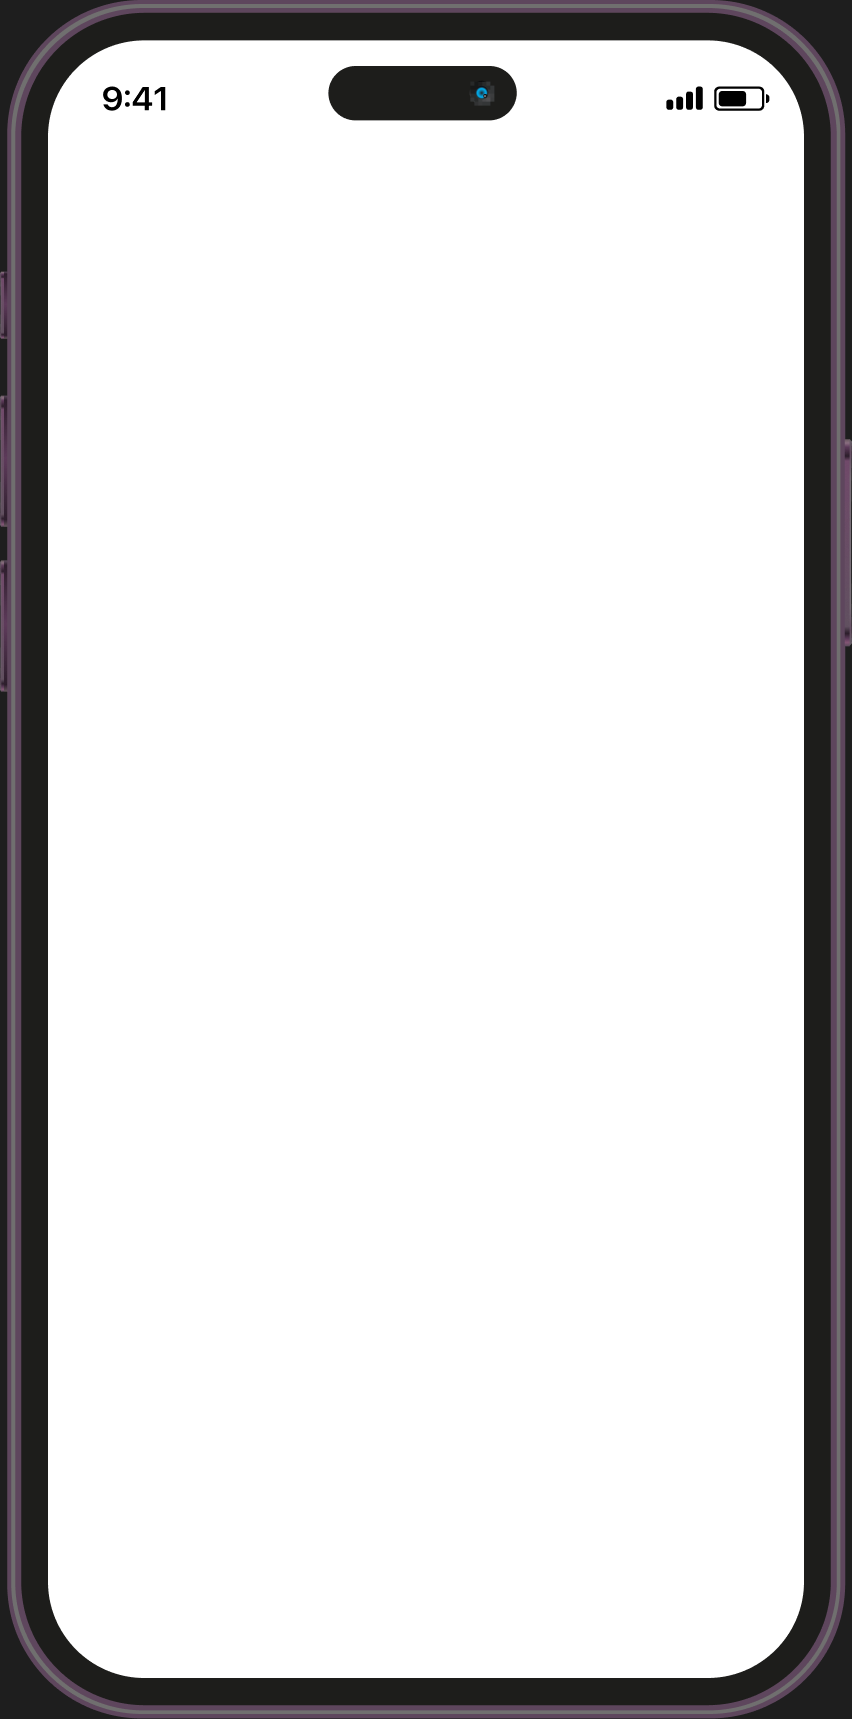
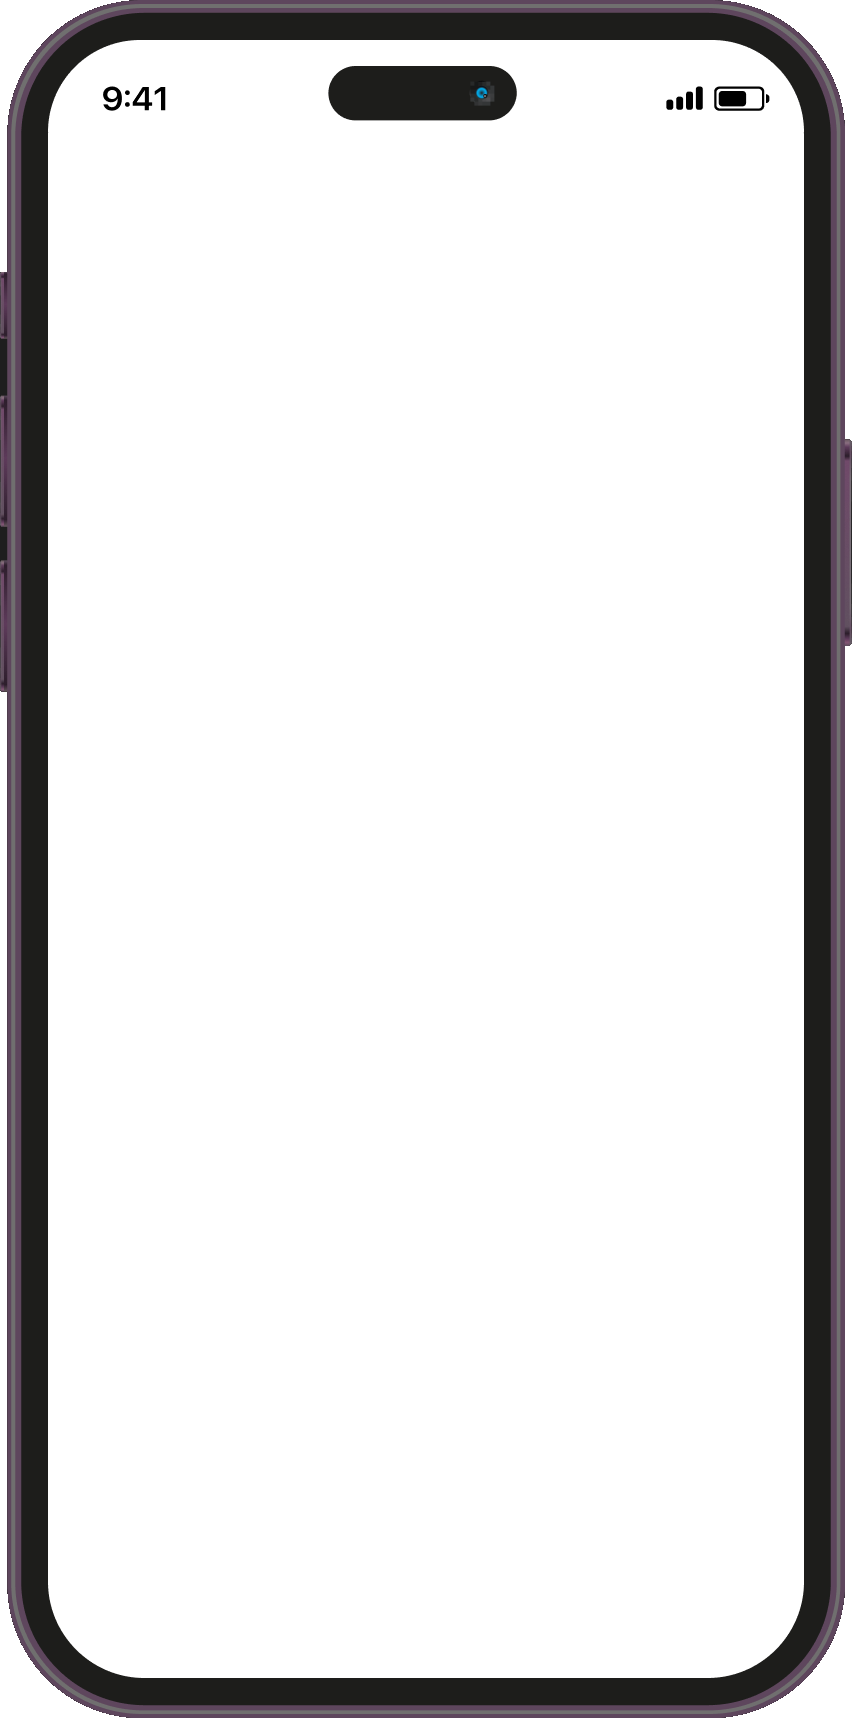
Project Five 목업 업데이트 및 슬라이딩 모션 개선
- 변경된 Figma 목업으로 교체, 배경을 투명 처리
- 슬라이딩 속도 단축 및 자연스러운 상/하단 왕복 모션 적용

diff --git a/styles/style.css b/styles/style.css
@@ -248,9 +248,9 @@ a {
 .phone-mockup__screen {
   position: absolute;
   left: 5.634%;
-  top: 2.385%;
+  top: 2.327%;
   width: 88.615%;
-  height: 95.172%;
+  height: 95.23%;
   overflow: hidden;
   border-radius: 8% / 4%;
 }
@@ -261,7 +261,7 @@ a {
   top: 0;
   width: 100%;
   height: auto;
-  animation: phone-shot-slide 16s ease-in-out infinite;
+  animation: phone-shot-slide 9s ease-in-out infinite;
 }
 
 .phone-mockup__frame {
@@ -277,9 +277,12 @@ a {
   8% {
     transform: translateY(0);
   }
-  92%,
-  100% {
+  46%,
+  58% {
     transform: translateY(-45.8%);
+  }
+  100% {
+    transform: translateY(0);
   }
 }
 
